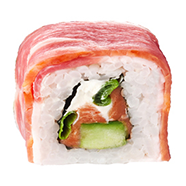
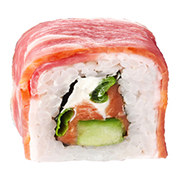
Corrected the pictures in the card, and also added a dummy for under the sauce selection menu

diff --git a/src/assets/scss/modules/product.scss b/src/assets/scss/modules/product.scss
@@ -28,7 +28,8 @@
   }
   @media screen and (max-width: $phoneWidth) {
     padding: 0;
-    &:before, &:after {
+    &:before,
+    &:after {
       display: none;
     }
   }
@@ -80,6 +81,11 @@
     }
   }
 }
+.product-cost--option {
+  @media screen and (max-width: $smDesktopWidth) {
+    padding: 0 0 20px 0 !important;
+  }
+}
 .product-item--sale {
   width: 100%;
   cursor: pointer;
@@ -107,7 +113,7 @@
   }
 }
 .product-item--sale span:after {
-  content: '';
+  content: "";
   display: inline-block;
   width: 22px;
   height: 20px;
@@ -151,7 +157,7 @@
     cursor: pointer;
     border-radius: 50%;
     &:hover {
-      box-shadow: 0px 1px 3px 0 $neutral-secondary ;
+      box-shadow: 0px 1px 3px 0 $neutral-secondary;
     }
     @media screen and (max-width: $smDesktopWidth) {
       span {
@@ -198,14 +204,14 @@
   width: 54px;
   height: 54px;
   border-radius: 50%;
-  box-shadow: 0 7px 10px rgba(0,0,0,0.39);
+  box-shadow: 0 7px 10px rgba(0, 0, 0, 0.39);
   span {
     display: inherit;
     justify-self: center;
     align-self: center;
     color: $secondFontColor;
     font-family: $boldFont;
-    font-size: rem(16)
+    font-size: rem(16);
   }
 }
 .product-veg {
@@ -267,8 +273,6 @@
     }
   }
 }
-
-
 .product-cost {
   display: flex;
   justify-content: center;
@@ -292,10 +296,44 @@
     border-radius: 3px;
     cursor: pointer;
     background-color: $success-color;
-    color: $secondFontColor ;
+    color: $secondFontColor;
     font-size: rem(14);
     &:hover {
       box-shadow: 0 0 3px grey;
     }
   }
 }
+
+.product-sauce {
+  padding: 0 0 15px 0;
+}
+.product-sauce--list {
+  position: relative;
+  width: 100%;
+  border-radius: 3px;
+  background-color: $form-color;
+  cursor: pointer;
+  font-size: rem(12);
+  padding: 5px 0 5px 13px;
+  button {
+    display: grid;
+    position: absolute;
+    align-items: center;
+    cursor: pointer;
+    top: 0;
+    bottom: 0;
+    right: 0;
+    width: 25px;
+    border-radius: 3px;
+    background-image: linear-gradient(0deg, #d8d8d8 0%, #f9f9f9 100%);
+    border: 1px solid #e5e5e5;
+    span {
+      display: block;
+      margin-top: -4px;
+      font-size: rem(15);
+      padding: 0 !important;
+    }
+  }
+}
+
+//---------------------------------
